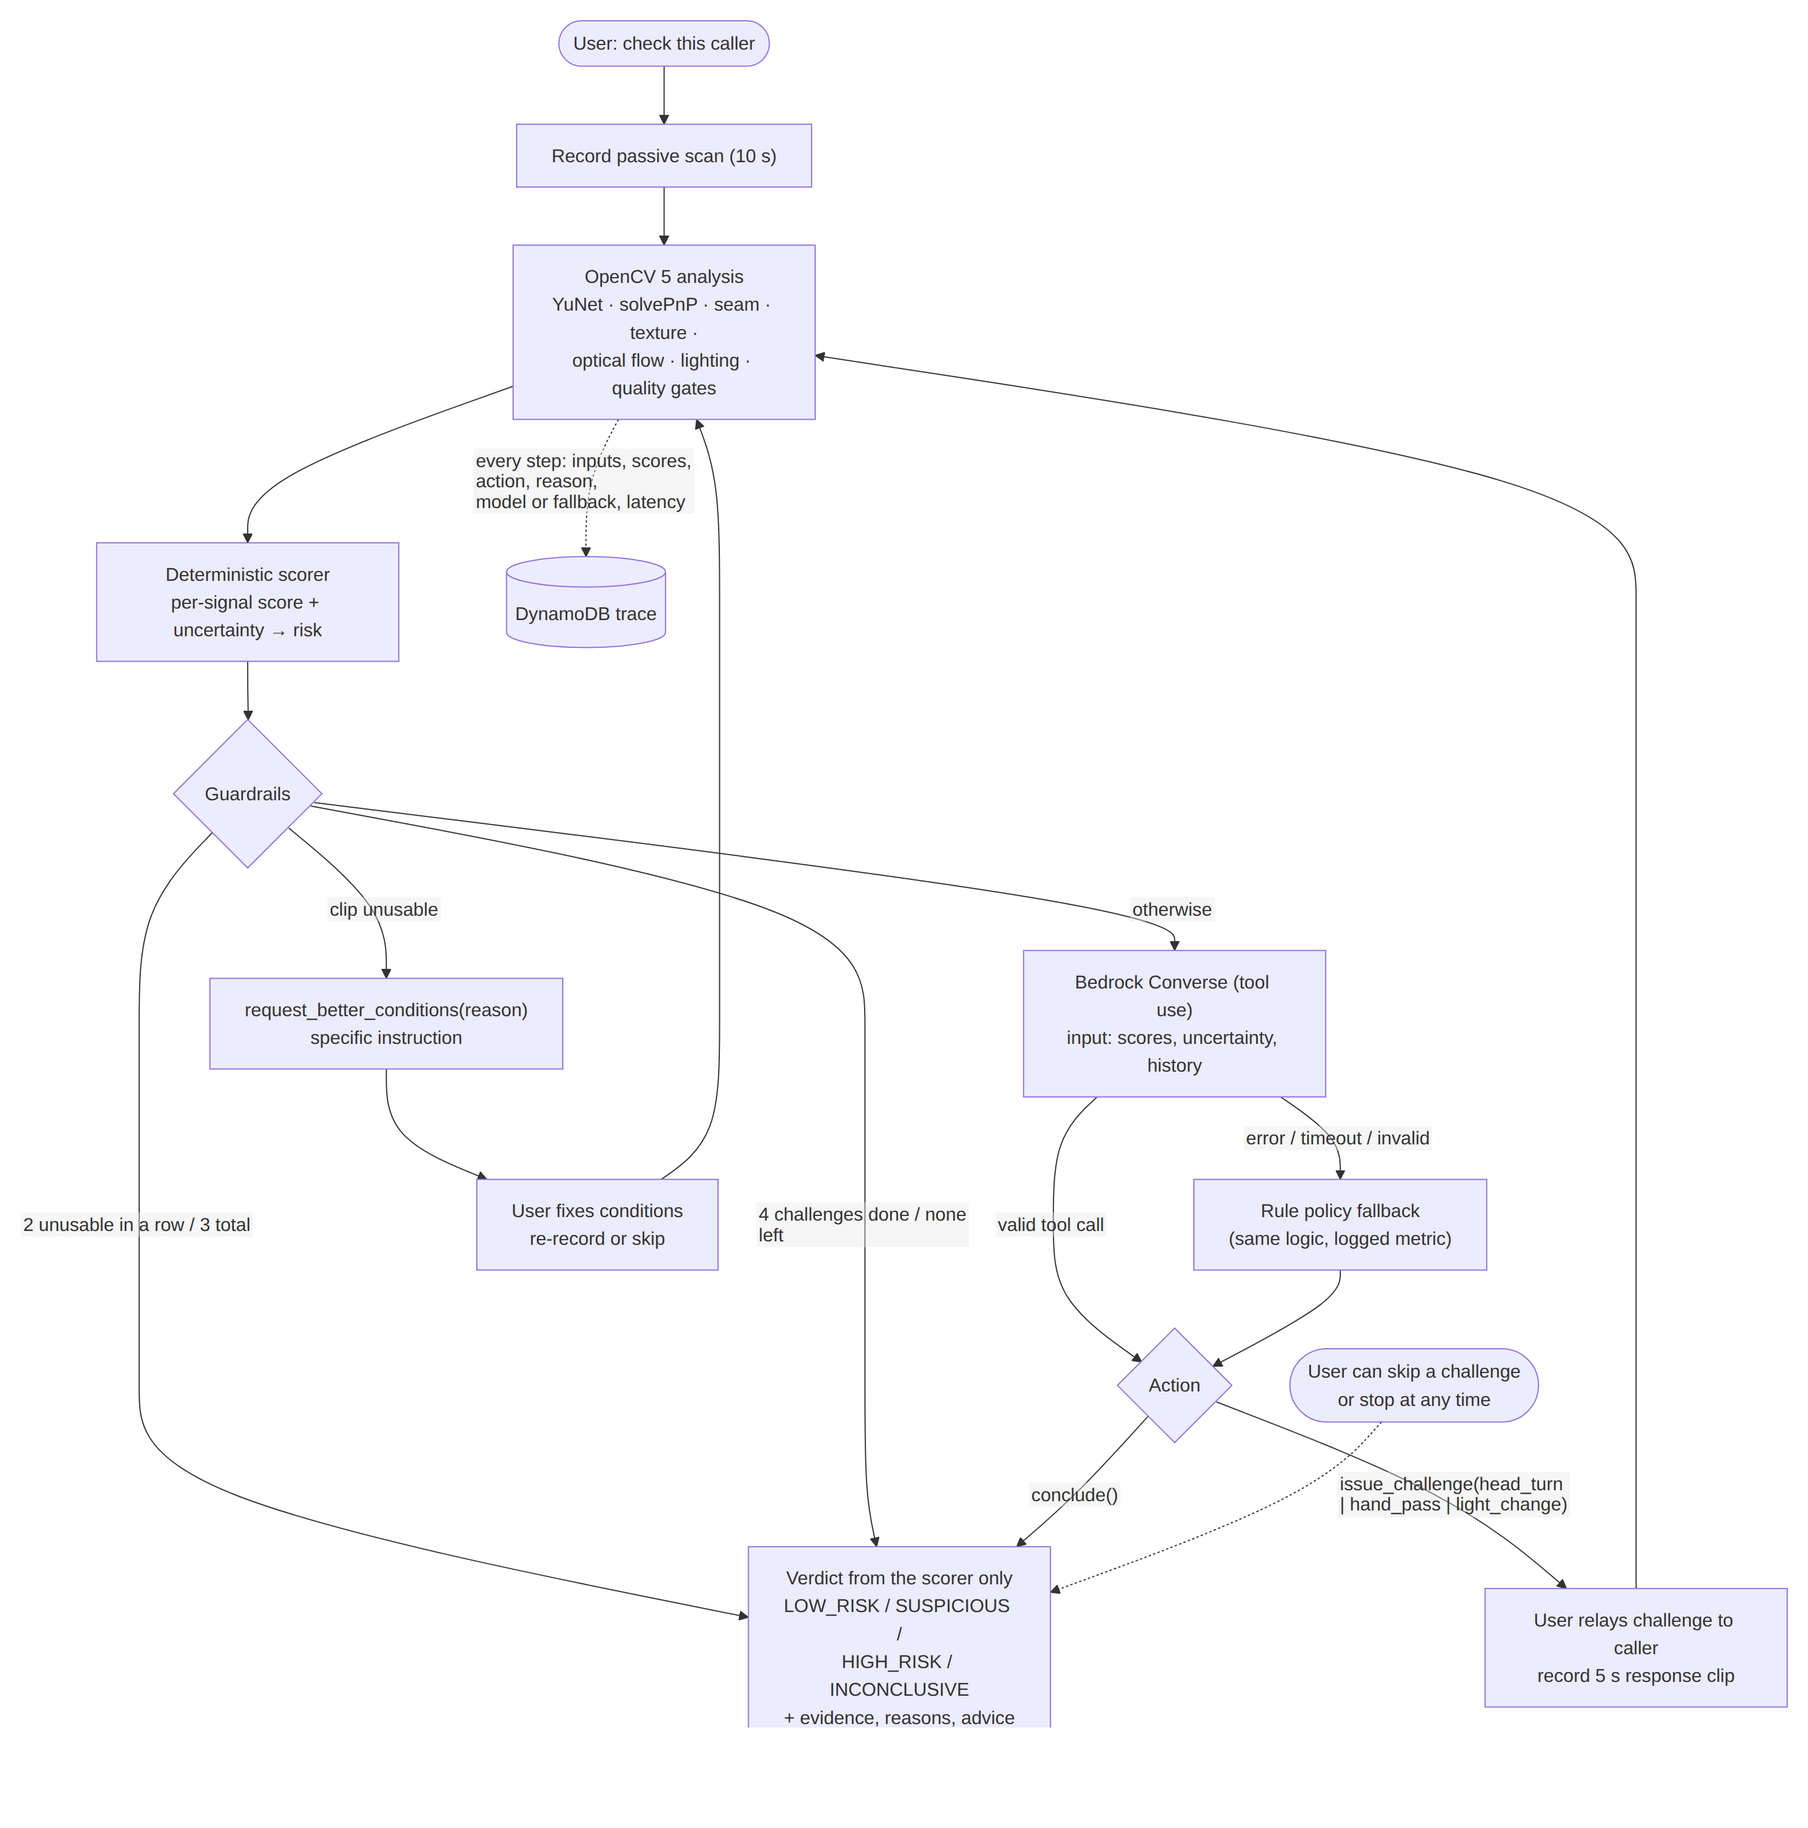
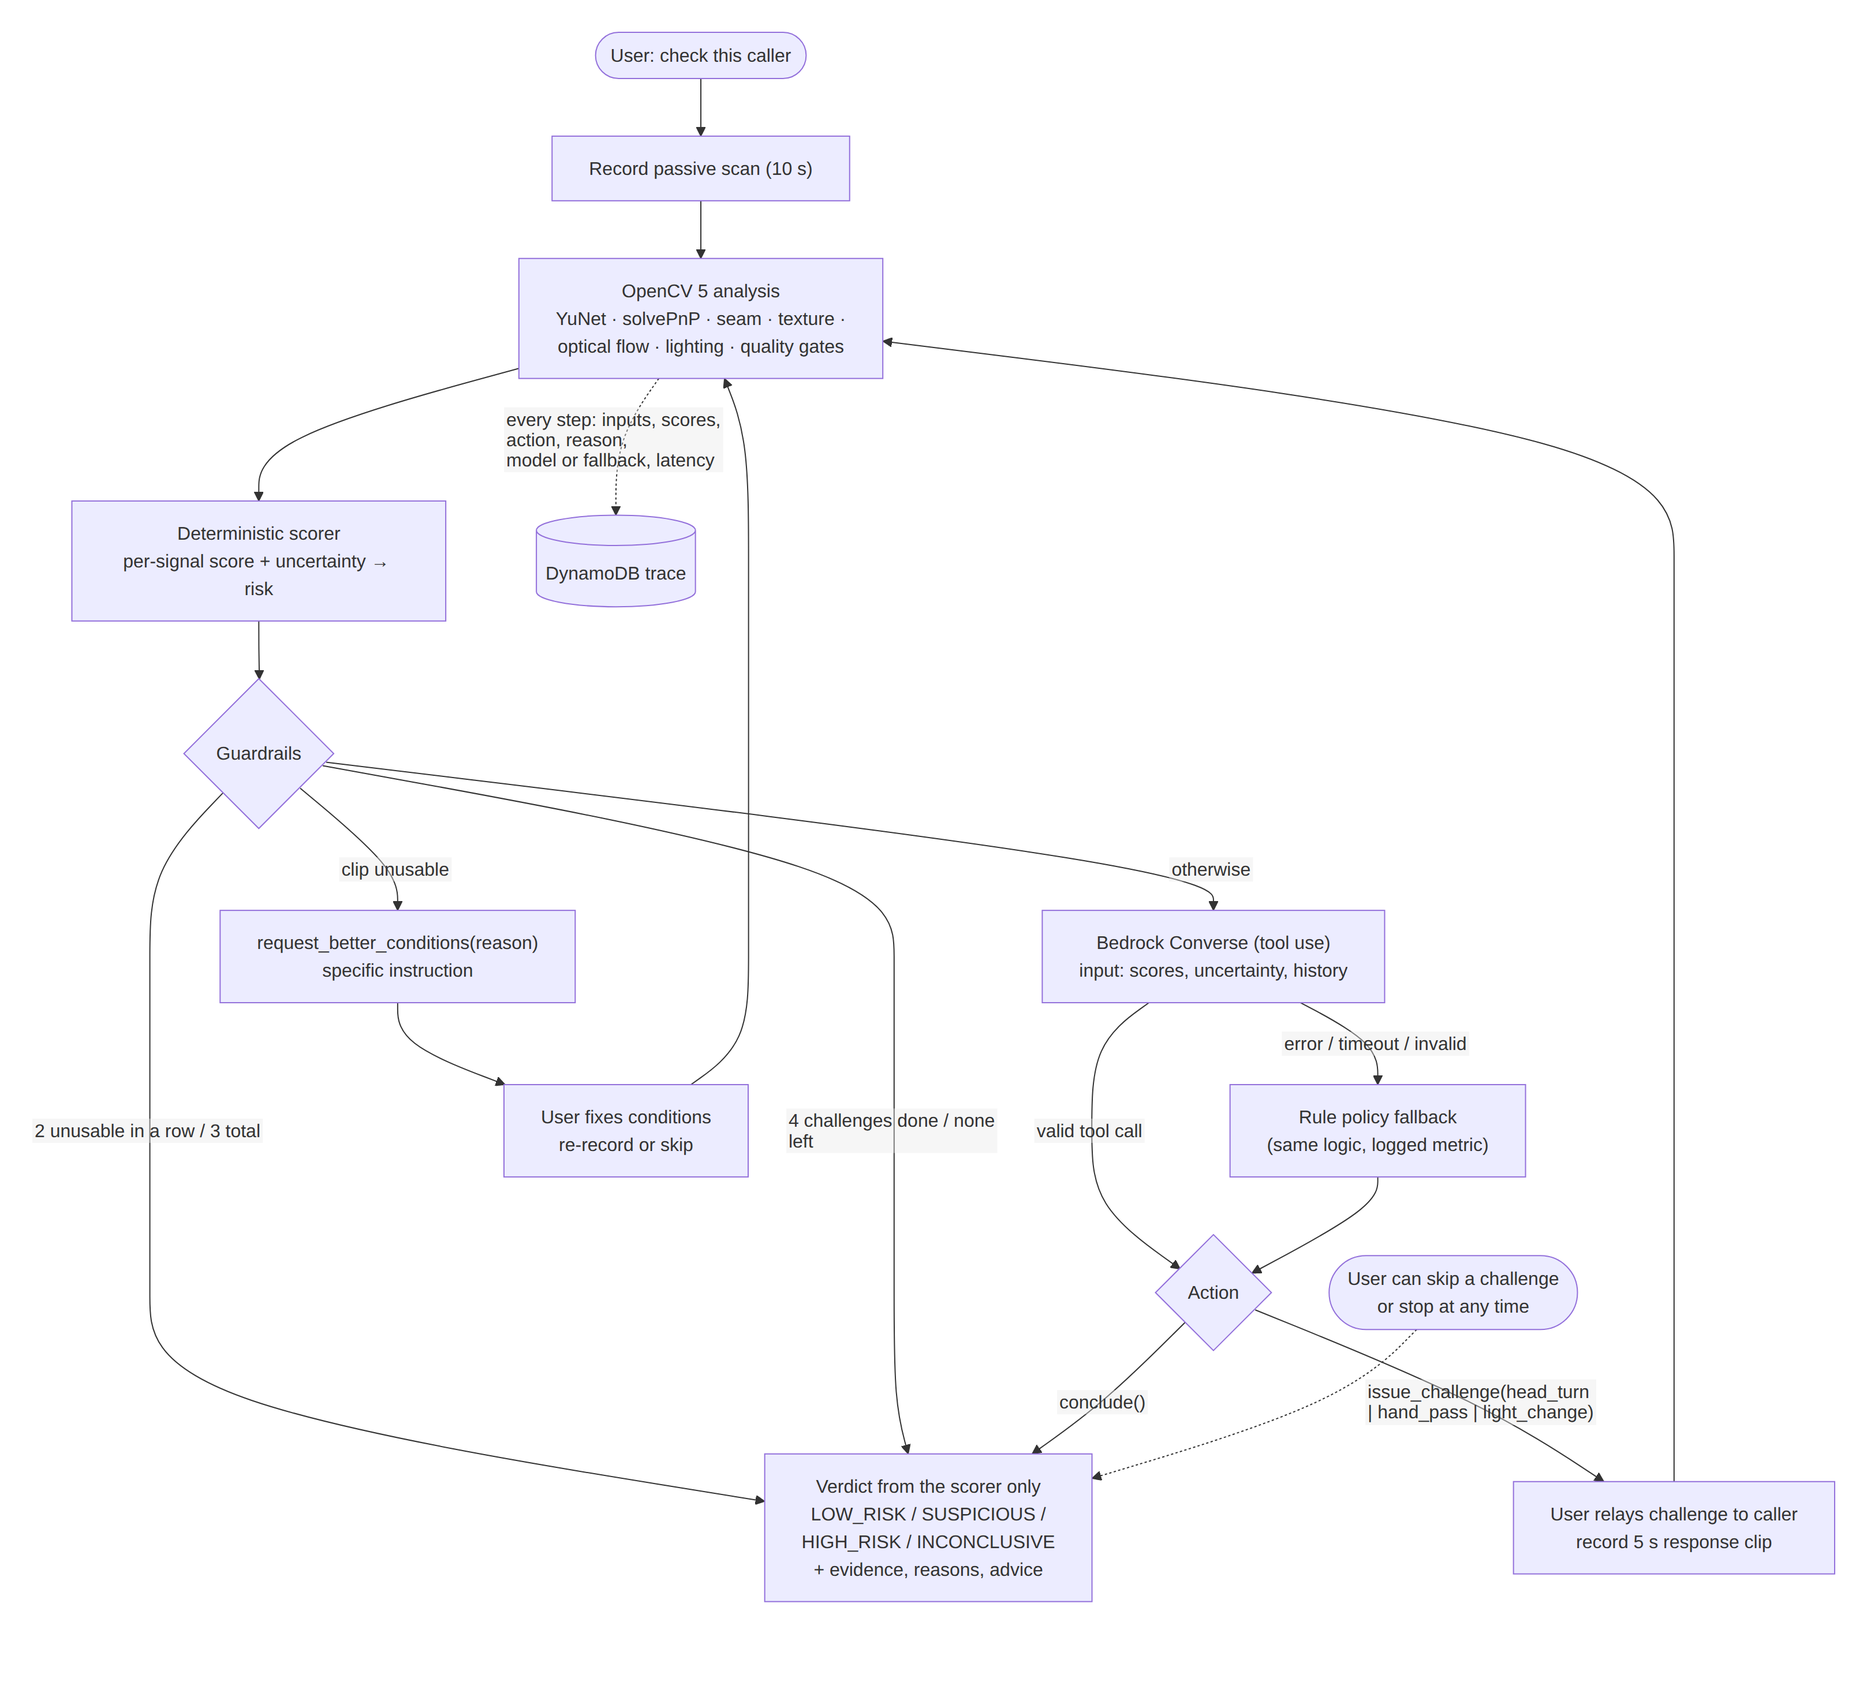
Default agent model to Claude Haiku 5.5 with inference-profile fallback; fix diagram clipping
- BedrockModelId default anthropic.claude-haiku-5-5; new BedrockProfile parameter
  (auto: as given -> us./eu./apac. regional profile -> global., resolved ID cached)
- Converse maxTokens raised for thinking-on models; effort field dropped if rejected
- Diagrams rendered entirely in headless Chrome (scripts/render_diagrams.py)

diff --git a/unmask/agent/bedrock.py b/unmask/agent/bedrock.py
@@ -9,7 +9,13 @@ import time
 
 from .policy import CHALLENGE_TYPES, forced_action, rule_policy
 
-DEFAULT_MODEL_ID = "anthropic.claude-opus-5-5"
+# Fast, cheap default for a one-tool-call decision; override with BEDROCK_MODEL_ID
+# (e.g. anthropic.claude-sonnet-5-5, or a full inference-profile ID / ARN).
+DEFAULT_MODEL_ID = "anthropic.claude-haiku-5-5"
+# Cross-region inference-profile prefixes Bedrock uses in front of model IDs.
+PROFILE_PREFIXES = ("us", "eu", "apac", "global", "us-gov", "jp", "au", "ca")
+_MODEL_ID_ERRORS = ("inference profile", "on-demand throughput", "model identifier", "model id", "provided model")
+_resolved: dict[str, str] = {}
 
 SYSTEM_PROMPT = """You are the decision step of Unmask, a tool that helps a person check whether the caller on a video call is a real-time face swap.
 OpenCV has measured the caller's video. You receive per-signal suspicion scores in [0,1] (0.5 = undecided) and an uncertainty for each (1 = unknown / borderline).
@@ -64,6 +70,51 @@ def _bedrock():
     return _client
 
 
+def region_prefix(region: str) -> str | None:
+    """Geographic inference-profile prefix for a region (us-east-1 -> 'us', eu-west-1 -> 'eu', ...)."""
+    if region.startswith("us-gov-"):
+        return "us-gov"
+    for start, prefix in (("us-", "us"), ("ca-", "us"), ("eu-", "eu"), ("ap-", "apac")):
+        if region.startswith(start):
+            return prefix
+    return None
+
+
+def candidate_model_ids(model_id: str, region: str, mode: str = "auto") -> list[str]:
+    """Model IDs to try, in order.
+
+    BEDROCK_PROFILE=auto (default): the ID as given, then the regional profile
+    (us./eu./apac.), then global. =none: only as given. =us|eu|apac|global|...:
+    force that prefix. IDs that already carry a prefix, or ARNs, are used as is."""
+    if model_id.startswith("arn:") or model_id.split(".", 1)[0] in PROFILE_PREFIXES:
+        return [model_id]
+    if mode == "none":
+        return [model_id]
+    if mode in PROFILE_PREFIXES:
+        return [f"{mode}.{model_id}"]
+    out = [model_id]
+    rp = region_prefix(region)
+    if rp:
+        out.append(f"{rp}.{model_id}")
+    out.append(f"global.{model_id}")
+    return out
+
+
+def _is_model_id_error(e: Exception) -> bool:
+    return any(k in str(e).lower() for k in _MODEL_ID_ERRORS)
+
+
+def _converse(client, req: dict, effort: str | None):
+    """Converse call; drops the effort field if the model rejects it."""
+    if effort:
+        try:
+            return client.converse(**req, additionalModelRequestFields={"output_config": {"effort": effort}})
+        except client.exceptions.ValidationException as e:
+            if _is_model_id_error(e):
+                raise
+    return client.converse(**req)
+
+
 def _validate(call: dict, state: dict) -> None:
     name, args = call["name"], call["input"]
     if name == "issue_challenge":
@@ -80,26 +131,36 @@ def _validate(call: dict, state: dict) -> None:
 
 def bedrock_policy(state: dict, cfg: dict, confident: bool) -> dict:
     """Ask the model for the next action. Raises PolicyError on any problem."""
-    model_id = os.environ.get("BEDROCK_MODEL_ID", DEFAULT_MODEL_ID)
+    configured = os.environ.get("BEDROCK_MODEL_ID") or DEFAULT_MODEL_ID
+    region = os.environ.get("BEDROCK_REGION") or os.environ.get("AWS_REGION", "us-east-1")
     msg = {"role": "user", "content": [{"text": "Current session state (JSON):\n" + json.dumps(state, sort_keys=True)
                                         + f"\nScorer early-stop rule says confident={str(confident).lower()}."
                                         + "\nCall exactly one tool now."}]}
-    req = dict(modelId=model_id, system=[{"text": SYSTEM_PROMPT}], messages=[msg],
-               toolConfig={"tools": TOOLS, "toolChoice": {"auto": {}}},
-               inferenceConfig={"maxTokens": 400})
+    # toolChoice "auto": current Claude models reject forced tool choice ("any"/"tool");
+    # the prompt asks for exactly one call and _validate enforces it.
+    base = dict(system=[{"text": SYSTEM_PROMPT}], messages=[msg],
+                toolConfig={"tools": TOOLS, "toolChoice": {"auto": {}}},
+                inferenceConfig={"maxTokens": int(os.environ.get("BEDROCK_MAX_TOKENS", "2000"))})
     effort = os.environ.get("BEDROCK_EFFORT", "low")
+    candidates = [_resolved[configured]] if configured in _resolved else \
+        candidate_model_ids(configured, region, os.environ.get("BEDROCK_PROFILE", "auto"))
     t0 = time.perf_counter()
+    resp, model_id, last_err = None, None, None
     try:
         client = _bedrock()
-        try:
-            resp = client.converse(**req, **({"additionalModelRequestFields": {"output_config": {"effort": effort}}}
-                                              if effort else {}))
-        except client.exceptions.ValidationException:
-            resp = client.converse(**req)  # model/region rejects the effort field
-    except PolicyError:
-        raise
+        for mid in candidates:
+            try:
+                resp = _converse(client, dict(base, modelId=mid), effort)
+                model_id = _resolved[configured] = mid
+                break
+            except client.exceptions.ValidationException as e:
+                last_err = e
+                if not _is_model_id_error(e):
+                    raise
     except Exception as e:  # botocore errors, timeouts, missing access, no credentials
         raise PolicyError(f"{type(e).__name__}: {e}") from e
+    if resp is None:
+        raise PolicyError(f"no usable model ID among {candidates}: {last_err}")
     latency = (time.perf_counter() - t0) * 1000
     calls = [b["toolUse"] for b in resp.get("output", {}).get("message", {}).get("content", []) if "toolUse" in b]
     if len(calls) != 1:

diff --git a/scripts/render_diagrams.py b/scripts/render_diagrams.py
@@ -1,0 +1,73 @@
+"""Render the Mermaid blocks in docs/architecture.md and docs/agent-workflow.md to SVG + PNG.
+
+Mermaid runs inside headless Chrome (fetched from jsDelivr), and the PNG is taken by the same
+browser, so text is measured and drawn with the same fonts (no clipped labels).
+
+  python scripts/render_diagrams.py [--chrome /opt/google/chrome/chrome]
+"""
+from __future__ import annotations
+
+import argparse
+import json
+import re
+import shutil
+import subprocess
+import tempfile
+import xml.dom.minidom
+from pathlib import Path
+
+ROOT = Path(__file__).resolve().parents[1]
+MERMAID = "https://cdn.jsdelivr.net/npm/mermaid@11.4.1/dist/mermaid.esm.min.mjs"
+
+
+def chrome_bin(explicit: str | None) -> str:
+    for c in (explicit, "google-chrome", "/opt/google/chrome/chrome", "chromium", "chromium-browser"):
+        if c and (shutil.which(c) or Path(c).exists()):
+            return shutil.which(c) or c
+    raise SystemExit("Chrome/Chromium not found; pass --chrome")
+
+
+def render(name: str, chrome: str, tmp: Path) -> None:
+    md = (ROOT / "docs" / f"{name}.md").read_text()
+    src = re.search(r"```mermaid\n(.*?)```", md, re.S).group(1)
+    out = ROOT / "docs" / "diagrams"
+    out.mkdir(parents=True, exist_ok=True)
+    (out / f"{name}.mmd").write_text(src)
+    page = tmp / f"render_{name}.html"
+    page.write_text(f"""<!doctype html><html><head><meta charset="utf-8"></head>
+<body style="margin:10px;background:#fff"><div id="out"></div><script type="module">
+import mermaid from "{MERMAID}";
+mermaid.initialize({{startOnLoad:false, theme:"default", fontFamily:"Arial, Helvetica, sans-serif",
+  flowchart:{{htmlLabels:false, curve:"basis", padding:16, wrappingWidth:260}}}});
+const {{svg}} = await mermaid.render("d", {json.dumps(src)});
+document.getElementById("out").innerHTML = svg;
+</script></body></html>""")
+    dom = subprocess.run([chrome, "--headless=new", "--disable-gpu", "--no-sandbox", "--virtual-time-budget=15000",
+                          "--dump-dom", page.as_uri()], capture_output=True, text=True, timeout=120).stdout
+    svg = re.sub(r"<br\s*>", "<br/>", re.search(r"(<svg[\s\S]*?</svg>)\s*</div>", dom).group(1))
+    x, y, w, h = [float(v) for v in re.search(r'viewBox="([^"]+)"', svg).group(1).split()]
+    x, y, w, h = x - 20, y - 20, w + 40, h + 100   # mermaid's bbox is a little tight
+    svg = re.sub(r'viewBox="[^"]+"', f'viewBox="{x:.1f} {y:.1f} {w:.1f} {h:.1f}"', svg, count=1)
+    svg = re.sub(r"max-width:\s*[\d.]+px;?", f"max-width: {w:.1f}px;", svg, count=1)
+    xml.dom.minidom.parseString(svg)
+    (out / f"{name}.svg").write_text(svg)
+    shot = tmp / f"{name}.html"
+    shot.write_text('<html><body style="margin:0;background:#fff">' + svg.replace(f"max-width: {w:.1f}px;", "") + "</body></html>")
+    subprocess.run([chrome, "--headless=new", "--disable-gpu", "--no-sandbox", "--hide-scrollbars",
+                    "--force-device-scale-factor=2", f"--window-size={int(w)},{int(h)}",
+                    f"--screenshot={out / (name + '.png')}", shot.as_uri()], capture_output=True, timeout=120)
+    print(f"wrote docs/diagrams/{name}.svg and .png")
+
+
+def main():
+    ap = argparse.ArgumentParser()
+    ap.add_argument("--chrome")
+    a = ap.parse_args()
+    chrome = chrome_bin(a.chrome)
+    with tempfile.TemporaryDirectory() as t:
+        for name in ("architecture", "agent-workflow"):
+            render(name, chrome, Path(t))
+
+
+if __name__ == "__main__":
+    main()

diff --git a/tests/test_agent.py b/tests/test_agent.py
@@ -134,3 +134,40 @@ def test_guardrail_overrides_model_on_unusable_clip(fake):
     d = decide(state_for([clip("passive", usable=False, reason="no_face")]), CFG, False)
     assert d["policy"] == "guardrail" and d["action"] == "request_better_conditions"
     assert not c.calls
+
+
+def test_inference_profile_candidates():
+    from unmask.agent.bedrock import candidate_model_ids
+    m = "anthropic.claude-haiku-5-5"
+    assert candidate_model_ids(m, "us-east-1") == [m, "us." + m, "global." + m]
+    assert candidate_model_ids(m, "eu-west-1")[1] == "eu." + m
+    assert candidate_model_ids(m, "ap-southeast-2")[1] == "apac." + m
+    assert candidate_model_ids("us." + m, "eu-west-1") == ["us." + m]
+    assert candidate_model_ids(m, "us-east-1", "none") == [m]
+    assert candidate_model_ids(m, "us-east-1", "global") == ["global." + m]
+    arn = "arn:aws:bedrock:us-east-1:123:application-inference-profile/x"
+    assert candidate_model_ids(arn, "us-east-1") == [arn]
+
+
+def test_bare_id_rejected_retries_regional_profile(monkeypatch):
+    from unmask.agent.bedrock import _resolved
+
+    class C(FakeClient):
+        def converse(self, **kw):
+            self.calls.append(kw)
+            if not kw["modelId"].startswith("us."):
+                raise self.exceptions.ValidationException(
+                    "Invocation of model ID anthropic.claude-haiku-5-5 with on-demand throughput isn't supported. "
+                    "Retry with the ID or ARN of an inference profile")
+            return _tool_response("issue_challenge", {"challenge": "hand_pass", "reason": "occlusion untested"})
+    c = C()
+    monkeypatch.setattr(bedrock, "_client", c)
+    monkeypatch.setenv("BEDROCK_REGION", "us-east-1")
+    monkeypatch.delenv("BEDROCK_MODEL_ID", raising=False)
+    _resolved.clear()
+    d = decide(state_for([clip("passive", **feats("seam", 0))]), CFG, False)
+    assert d["policy"] == "bedrock" and d["model_id"] == "us.anthropic.claude-haiku-5-5"
+    n = len(c.calls)
+    decide(state_for([clip("passive", **feats("seam", 0))]), CFG, False)
+    assert len(c.calls) == n + 1  # resolved ID is cached
+    _resolved.clear()

diff --git a/scripts/check_bedrock.py b/scripts/check_bedrock.py
@@ -1,7 +1,7 @@
 """List Anthropic models and inference profiles available to this account in a region,
 and try one Converse tool-use call against the configured model.
 
-  python scripts/check_bedrock.py --region us-east-1 [--model anthropic.claude-opus-5-5]
+  python scripts/check_bedrock.py --region us-east-1 [--model anthropic.claude-haiku-5-5]
 """
 import argparse
 import os
@@ -13,7 +13,7 @@ import boto3
 def main():
     ap = argparse.ArgumentParser()
     ap.add_argument("--region", default=os.environ.get("AWS_REGION", "us-east-1"))
-    ap.add_argument("--model", default=os.environ.get("BEDROCK_MODEL_ID"))
+    ap.add_argument("--model", default=os.environ.get("BEDROCK_MODEL_ID", "anthropic.claude-haiku-5-5"))
     a = ap.parse_args()
     br = boto3.client("bedrock", region_name=a.region)
     models = br.list_foundation_models(byProvider="Anthropic")["modelSummaries"]
@@ -40,7 +40,7 @@ def main():
         state = build_state(clips, session_risk(clips, cfg), cfg, ["head_turn", "hand_pass", "light_change"])
         try:
             d = bedrock_policy(state, cfg, False)
-            print(f"\nConverse tool call OK with {a.model}: {d['action']} {d.get('challenge', '')} ({d['model_latency_ms']:.0f} ms)")
+            print(f"\nConverse tool call OK with {d['model_id']} (configured {a.model}): {d['action']} {d.get('challenge', '')} ({d['model_latency_ms']:.0f} ms)")
             print(f"  reason: {d['reason']}")
         except PolicyError as e:
             print(f"\nConverse call FAILED with {a.model}: {e}")

diff --git a/README.md b/README.md
@@ -74,8 +74,13 @@ container (3008 MB, 60 s), a private encrypted clip bucket with a 1-day lifecycl
 table with 24 h TTL, least-privilege IAM, a CloudWatch dashboard and an error alarm. Outputs
 include `FrontendUrl`, `ApiUrl` and `DashboardUrl`.
 
-Bedrock: the model ID and region are stack parameters (`BedrockModelId`, `BedrockRegion`), passed
-to the function as `BEDROCK_MODEL_ID` / `BEDROCK_REGION`. If the model is not enabled, times out or
+Bedrock: the agent only makes one small tool call per step, so the default model is the fast, cheap
+`anthropic.claude-haiku-5-5` (switch to e.g. `anthropic.claude-sonnet-5-5` with the `BedrockModelId`
+parameter). Model ID, region and inference-profile handling are stack parameters (`BedrockModelId`,
+`BedrockRegion`, `BedrockProfile`) passed to the function as `BEDROCK_MODEL_ID` / `BEDROCK_REGION` /
+`BEDROCK_PROFILE`. With `BedrockProfile=auto` the agent tries the ID as given, then the region's
+cross-region inference profile (`us.` / `eu.` / `apac.`), then `global.`, and caches whichever works;
+a full profile ID or ARN is used unchanged. If the model is not enabled, times out or
 returns an invalid action, the agent falls back to the deterministic policy, logs the reason, and
 increments the `BedrockFallbacks` metric. Set `UseBedrock=false` to run rules only.
 
